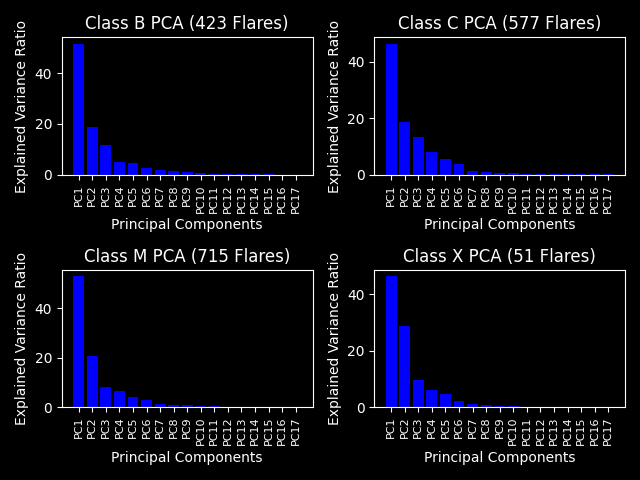
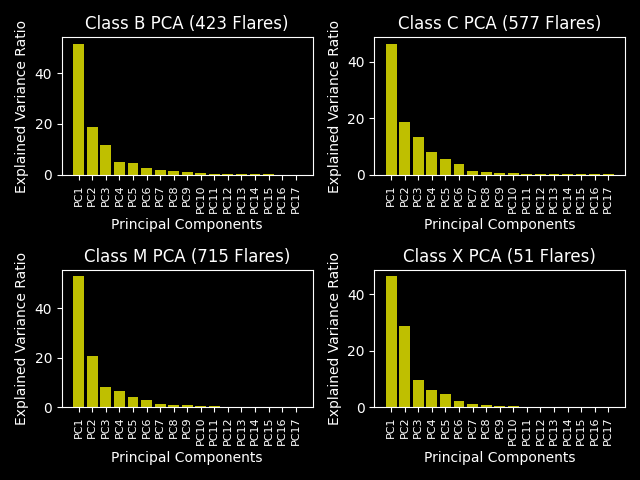
more stuff

diff --git a/multiple_flares.py b/multiple_flares.py
@@ -4,7 +4,10 @@ import drms
 import json, numpy as np, matplotlib.pylab as plt, matplotlib.ticker as mtick
 from datetime import datetime as dt_obj
 import urllib
+
+import matplotlib
 from astropy.io import fits
+from matplotlib.colors import ListedColormap
 from sklearn.decomposition import PCA
 from sunpy.visualization.colormaps import color_tables as ct
 from matplotlib.dates import *
@@ -71,6 +74,7 @@ def floor_minute(time, cadence=12):
 
 
 def main():
+    plt.style.use("dark_background")
     # Choose which flares to plot.
     # ABC Flares
     abc_info_df = pd.read_csv("ABC_list.txt")
@@ -100,9 +104,8 @@ def main():
 
     # Get B and C class flares, round down their minutes.
     b_df = abc_info_df.loc[abc_info_df["xray_class"] == "B"]
-    print("Class B Flares Shape: ", b_df.shape)
     c_df = abc_info_df.loc[abc_info_df["xray_class"] == "C"]
-    print("Class C Flares Shape: ", c_df.shape)
+
     bc_info = pd.concat([b_df, c_df])
     bc_info["time_start"] = \
         bc_info["time_start"].apply(floor_minute)
@@ -118,9 +121,7 @@ def main():
 
     # Get M and X class flares, round down their minutes.
     m_df = mx_info_df.loc[mx_info_df["xray_class"] == "M"]
-    print("Class M Flares Shape: ", m_df.shape)
     x_df = mx_info_df.loc[mx_info_df["xray_class"] == "X"]
-    print("Class X Flares Shape: ", x_df.shape)
     mx_info = pd.concat([m_df, x_df])
     mx_info["time_start"] = \
         mx_info["time_start"].apply(floor_minute)
@@ -142,7 +143,7 @@ def main():
     # 3. For all other flares in the complete set:
     #    i. Get the other flare's range like above, then determine if both
     #    flares' ranges have any overlap -- if so, then append it to a list.
-    flare_info = pd.concat([bc_info, mx_info], ignore_index=True)
+    flare_info = pd.concat([mx_info], ignore_index=True)
     flare_info.drop("Unnamed: 0", axis=1, inplace=True)
 
     b_df = flare_info.loc[flare_info["xray_class"] == "B"]
@@ -150,6 +151,10 @@ def main():
     m_df = flare_info.loc[flare_info["xray_class"] == "M"]
     x_df = flare_info.loc[flare_info["xray_class"] == "X"]
 
+    text = f"""Class B Flares Shape: {b_df.shape}
+Class C Flares Shape: {c_df.shape}
+Class M Flares Shape: {m_df.shape}
+Class X Flares Shape: {x_df.shape}"""
 
     def info_to_data(info, data):
         df = pd.DataFrame()
@@ -160,102 +165,113 @@ def main():
             df = pd.concat([df, df_sort])
         return df
 
-
-    info_to_data(b_df, bc_data)
-    info_to_data(b_df, bc_data)
-    info_to_data(b_df, bc_data)
     b_data_df = info_to_data(b_df, bc_data)
     c_data_df = info_to_data(c_df, bc_data)
     m_data_df = info_to_data(m_df, mx_data)
     x_data_df = info_to_data(x_df, mx_data)
 
+    # MULTIPLE FLARES BELOW
+    flare_matrix = np.zeros(shape=(flare_info.shape[0], flare_info.shape[0]),
+                            dtype=int)
+    flare_coincidences_mix = [0 for _ in range(flare_info.shape[0])]
+    flare_coincidences_same = [0 for _ in range(flare_info.shape[0])]
 
-    # Plot PCA
-    flare_dataframes = [b_data_df, c_data_df, m_data_df, x_data_df]
-    flare_indices = [(0, 0), (0, 1), (1, 0), (1, 1)]
-    plt.style.use("dark_background")
-    fig, ax = plt.subplots(2, 2)
-    pc_labels = [f"PC{i}" for i in range(1, 17 + 1)]
-    i, j = 0, 0
-    for df, label, indices in zip(flare_dataframes, CLASS_LABELS, flare_indices):
-        i, j = indices
-        df.drop(["T_REC", "NOAA_AR"], axis=1, inplace=True)
-        pca = PCA()
-        pca.fit_transform(MinMaxScaler().fit_transform(df))
-        ev = pca.explained_variance_ratio_
-        ax[i, j].set_title(f"Class {label} PCA ({df.shape[0]} Flares)")
-        ax[i, j].set_xlabel("Principal Components")
-        ax[i, j].set_ylabel("Explained Variance Ratio")
-        ax[i, j].set_xticks(range(17), pc_labels, fontsize=8, rotation="vertical")
-        ax[i, j].bar(range(len(ev)), list(ev * 100),
-                  align="center", color="b")
+    for index1, row1 in flare_info.iterrows():
+        flare_class1 = row1["xray_class"]
+        print(index1)
+        time_end1 = row1["time_end"]
+        time_start1 = time_end1 - datetime.timedelta(1)
+        for index2, row2 in flare_info.iterrows():
+            flare_class2 = row2["xray_class"]
+            # Don't count the same flare.
+            if index1 == index2:
+                continue
+            # Only look for flares in the same class.
+            time_end2 = row2["time_end"]
+            time_start2 = time_end2 - datetime.timedelta(1)
+            flares_overlap = (time_start1 <= time_start2 <= time_end1) or (
+                    time_start1 <= time_end2 <= time_end1)
+            if flares_overlap:
+
+                if flare_class1 == flare_class2:
+                    if flare_class1 == "M":
+                        flare_matrix[index1][index2] = 1
+                    elif flare_class1 == "X":
+                        flare_matrix[index1][index2] = 2
+                    flare_coincidences_same[index1] += 1
+                else:
+                    flare_matrix[index1][index2] = 3
+                flare_coincidences_mix[index1] += 1
+
+    def plot_examples(data, colors):
+        """
+        Helper function to plot data with associated colormap.
+        """
+        colormaps = ListedColormap(colors)
+        plt.figure(figsize=(16, 9))
+        im = plt.imshow(data, interpolation='nearest', cmap=colormaps)
+        plt.title("Coinciding Flares (M and X Flares)")
+        labels = ["None", "M-M", "X-X", "M-X"]
+        patches = [matplotlib.patches.Patch(color=colors[i],
+                                  label=labels[i]) for i in range(len(labels))]
+        plt.legend(handles=patches, bbox_to_anchor=(1.05, 1), loc=2,
+                   borderaxespad=0.)
+        plt.show()
+
+    colors = ["white", "purple", "red", "green"]
+    plot_examples(np.triu(flare_matrix).transpose(), colors)
+
+    # im = plt.imshow(flare_matrix, interpolation="nearest", cmap="binary")
+    # plt.colorbar(im)
+    # plt.title("Overlapping Flare Events (M and X Flares)")
+    # plt.show()
+
+    fig, ax = plt.subplots(1, 2, figsize=(16, 9))
+    mix_yticks = range(max(flare_coincidences_mix) + 1)
+    same_yticks = range(max(flare_coincidences_same) + 1)
+    ax[0].set_title(f"Coinciding Flares (M and X Flares Mix)")
+    ax[0].set_xlabel("Flare Index")
+    ax[0].set_ylabel("Number of Coincidental Flares")
+    ax[0].set_yticks(mix_yticks, mix_yticks)
+    # ax[1].text(400, max(flare_coincidences_mix) - 4, text)
+    ax[0].plot(range(flare_info.shape[0]), flare_coincidences_mix, color="y")
+    ax[1].set_title(f"Coinciding Flares (M and X Flares Same)")
+    ax[1].set_xlabel("Flare Index")
+    ax[1].set_ylabel("Number of Coincidental Flares")
+    ax[1].set_yticks(same_yticks, same_yticks)
+    ax[1].plot(range(flare_info.shape[0]), flare_coincidences_same, color="y")
+    # ax[1].text(400, max(flare_coincidences_mix) - 4, text)
     fig.tight_layout()
     fig.show()
 
-
-    print(b_data_df)
-    print(c_data_df)
-    print(m_data_df)
-    print(x_data_df)
-
-
-
-
-    # MULTIPLE FLARES BELOW
-
-    # multiple_flares = []
-    # for index in range(flare_info.shape[0]):
-    #     flare = {"flare_index": index, "overlapping_flares": []}
-    #     multiple_flares.append(flare)
-    # flare_matrix = np.zeros(shape=(flare_info.shape[0], flare_info.shape[0]),
-    #                         dtype=int)
+    # Plot PCA
+    # flare_dataframes = [b_data_df, c_data_df, m_data_df, x_data_df]
+    # flare_indices = [(0, 0), (0, 1), (1, 0), (1, 1)]
+    # fig, ax = plt.subplots(2, 2)
+    # pc_labels = [f"PC{i}" for i in range(1, 6 + 1)]
+    # for df, label, indices in zip(flare_dataframes, CLASS_LABELS, flare_indices):
+    #     i, j = indices
+    #     df.drop(["T_REC", "NOAA_AR"], axis=1, inplace=True)
+    #     pca = PCA(n_components=6)
+    #     pca.fit_transform(MinMaxScaler().fit_transform(df))
+    #     ev = pca.explained_variance_ratio_
+    #     ax[i, j].set_title(f"Class {label} PCA ({df.shape[0]} Flares)")
+    #     ax[i, j].set_xlabel("Principal Components")
+    #     ax[i, j].set_ylabel("Explained Variance Ratio")
+    #     ax[i, j].set_xticks(range(6), pc_labels, fontsize=8, rotation="vertical")
+    #     ax[i, j].bar(range(len(ev)), list(ev * 100),
+    #               align="center", color="y")
+    #     r = np.abs(pca.components_.T)
+    #     r /= r.sum(axis=0)
+    #     r = r.transpose()
+    #     pca_df = pd.DataFrame(r, columns=FLARE_PROPERTIES)
+    #     pca_df.index = pc_labels
+    #     print("Flare Class", label)
+    #     print(pca_df.T.to_latex())
     #
-    # print(flare_info.shape)
-
-    # for index1, row1 in flare_info.iterrows():
-    #     flare = multiple_flares[int(index1)]
-    #     print(flare)
-    #     flare_class1 = row1["xray_class"]
-    #     print(index1)
-    #     time_end1 = row1["time_end"]
-    #     time_start1 = time_end1 - datetime.timedelta(1)
-    #     for index2, row2 in flare_info.iterrows():
-    #         flare_class2 = row2["xray_class"]
-    #         # Don't count the same flare.
-    #         if index1 == index2:
-    #             continue
-    #         # Only look for flares in the same class.
-    #         if flare_class1 != flare_class2:
-    #             continue
-    #         time_end2 = row2["time_end"]
-    #         time_start2 = time_end2 - datetime.timedelta(1)
-    #         flares_overlap = (time_start1 <= time_start2 <= time_end1) or (
-    #                 time_start1 <= time_end2 <= time_end1)
-    #         if flares_overlap:
-    #             flare_matrix[index1][index2] = 1
-    #             flare["overlapping_flares"].append(f"{index2},{flare_class2}")
-
-    # with open("multiple_solar_events/overlapping_flares_same.csv", "w") as f:
-    #     writer = csv.DictWriter(f, fieldnames=["flare_index",
-    #                                            "overlapping_flares"])
-    #     writer.writeheader()
-    #     writer.writerows(multiple_flares)
-
-    # im = plt.imshow(flare_matrix, cmap="binary")
     #
-    # plt.colorbar(im)
-    # plt.title("Overlapping Flare Events (Same Classes)")
-    # plt.show()
-    # print("Multiple Flares", multiple_flares)
-    # multiple_flares_df = pd.DataFrame()
-    # for key, value in multiple_flares.items():
-    #     series = pd.Series(value, name=key)
-    #     multiple_flares_df = pd.concat([multiple_flares_df, series])
-    # print(multiple_flares_df)
-    # multiple_flares_df.to_csv("multiple_flares.csv")
-
-    # print("Time Start:", time_start)
-    # print("Time End:", time_end)
+    # fig.tight_layout()
+    # fig.show()
 
 
 if __name__ == "__main__":
